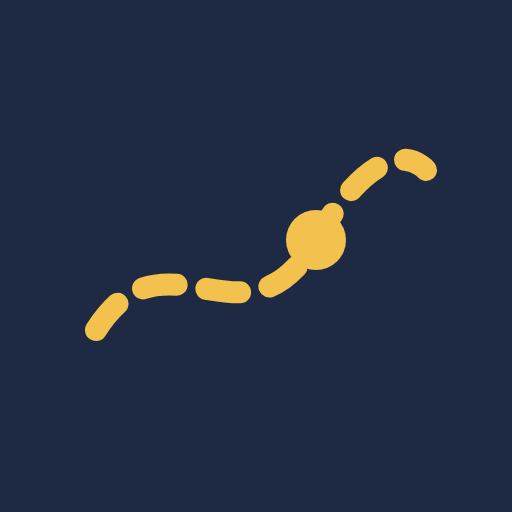
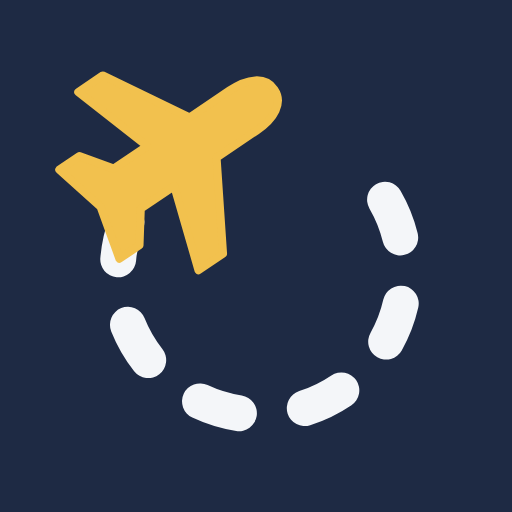
換上新 App 圖示（航線弧＋飛機）與品牌規範
- 新圖示：白色虛線航線繞一圈，黃色飛機接起航線往右上飛
- 產出 1024／512／192／180 PNG、maskable、favicon（ico／16／32）、深淺單色 SVG
- manifest 改用獨立的 maskable 圖示
- 新增 docs/brand.md（色彩、檔案用途、最小尺寸與留白、字型搭配）與 scripts/build-icons.cjs

Claude-Session: https://claude.ai/code/session_01T1bNusyiJ2sesyxigpdMwU

diff --git a/vite.config.ts b/vite.config.ts
@@ -8,7 +8,7 @@ export default defineConfig({
     react(),
     VitePWA({
       registerType: 'autoUpdate',
-      includeAssets: ['icon.svg', 'favicon-32.png', 'apple-touch-icon.png', 'fonts/space-grotesk-latin.woff2'],
+      includeAssets: ['icon.svg', 'favicon.ico', 'favicon-16.png', 'favicon-32.png', 'apple-touch-icon.png', 'fonts/space-grotesk-latin.woff2'],
       manifest: {
         name: '旅行手帳',
         short_name: '旅行手帳',
@@ -21,8 +21,8 @@ export default defineConfig({
         icons: [
           { src: 'icon-192.png', sizes: '192x192', type: 'image/png', purpose: 'any' },
           { src: 'icon-512.png', sizes: '512x512', type: 'image/png', purpose: 'any' },
-          { src: 'icon-512.png', sizes: '512x512', type: 'image/png', purpose: 'maskable' },
-          { src: 'icon.svg', sizes: 'any', type: 'image/svg+xml', purpose: 'any' },
+          { src: 'icon-maskable-512.png', sizes: '512x512', type: 'image/png', purpose: 'maskable' },
+          { src: 'icon-square.svg', sizes: 'any', type: 'image/svg+xml', purpose: 'any' },
         ],
       },
     }),

diff --git a/index.html b/index.html
@@ -8,6 +8,8 @@
     <meta name="apple-mobile-web-app-title" content="旅行手帳" />
     <link rel="icon" href="/icon.svg" type="image/svg+xml" />
     <link rel="icon" href="/favicon-32.png" type="image/png" sizes="32x32" />
+    <link rel="icon" href="/favicon-16.png" type="image/png" sizes="16x16" />
+    <link rel="icon" href="/favicon.ico" sizes="48x48" />
     <link rel="apple-touch-icon" href="/apple-touch-icon.png" sizes="180x180" />
     <link rel="preconnect" href="https://fonts.googleapis.com" />
     <link rel="preconnect" href="https://fonts.gstatic.com" crossorigin />

diff --git a/docs/brand.md b/docs/brand.md
@@ -1,0 +1,50 @@
+# 旅行手帳 品牌規範
+
+## 圖示概念
+
+**P3-S1 航線弧＋經典噴射機**：白色虛線航線繞將近一圈，黃色飛機在左上角把航線接起來，順著航線往右上飛。意思是「沿著排好的行程，一站接一站往前走」。
+
+## 色彩
+
+| 名稱 | Hex | 用途 |
+|---|---|---|
+| 深藍（主色） | `#1E2A44` | 圖示底色、文字、主要按鈕 |
+| 黃（強調色） | `#F2C14E` | 飛機、即將開始的旅程、選中的分頁 |
+| 紙白 | `#F4F6F9` | 航線、App 背景 |
+| 輔助灰藍 | `#C9D1DE` | 深色底上的次要文字 |
+
+比例大約是深藍 70%、紙白 20%、黃 10%。黃色只放在一個焦點上，不要大面積使用。
+
+## 檔案（`public/`）
+
+| 檔案 | 尺寸 | 用途 |
+|---|---|---|
+| `icon.svg` | 向量，圓角 22% | 網頁 favicon、一般展示 |
+| `icon-square.svg` | 向量，滿版 | manifest、系統會自行裁圓角的地方 |
+| `icon-maskable.svg`／`icon-maskable-512.png` | 圖形縮到 80% | Android 自適應圖示（安全區內） |
+| `icon-1024.png` | 1024 | App Store、宣傳素材 |
+| `icon-512.png`／`icon-192.png` | 512／192 | PWA manifest |
+| `apple-touch-icon.png` | 180 | iOS 加到主畫面 |
+| `favicon.ico` | 16／32／48 | 舊瀏覽器 |
+| `favicon-16.png`／`favicon-32.png` | 16／32 | 瀏覽器分頁 |
+| `icon-mono-light.svg` | 向量，深藍單色、無底 | 淺色背景、印刷 |
+| `icon-mono-dark.svg` | 向量，白色單色、無底 | 深色背景、照片上 |
+
+## 使用規則
+
+- **最小尺寸**：彩色版 16px；單色版 20px（更小時虛線會連在一起）。
+- **最小留白**：四周至少留圖示寬度的 12.5%（100 單位的 viewBox 裡就是 12.5）。
+- **不要做的事**：改顏色、加陰影或漸層、旋轉飛機、拉長變形、把虛線改成實線、在花俏背景上直接放彩色版（請改用單色版）。
+
+## 字型搭配
+
+| 用途 | 字型 |
+|---|---|
+| 中文、內文 | Noto Sans TC（400／500／700） |
+| 數字、時間、金額 | Space Grotesk（500／700），一律 `font-variant-numeric: tabular-nums` |
+
+## 重新產生
+
+執行 `node scripts/build-icons.cjs` 會重新輸出 `public/` 裡所有圖示（`favicon.ico` 另外用 Pillow 從 `icon-512.png` 轉出）。
+
+圖示是從同一份幾何定義產生的：航線圓心 (51, 53)、半徑 28，從 −30° 畫到 200°，虛線 `8 13`，線寬 7；飛機放在 236° 的位置，順著切線方向。要調整時改定義，再重新輸出所有尺寸，不要個別修改 PNG。
